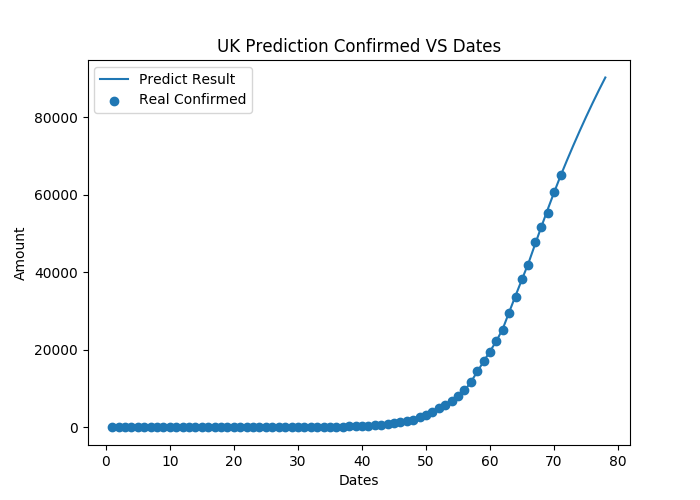
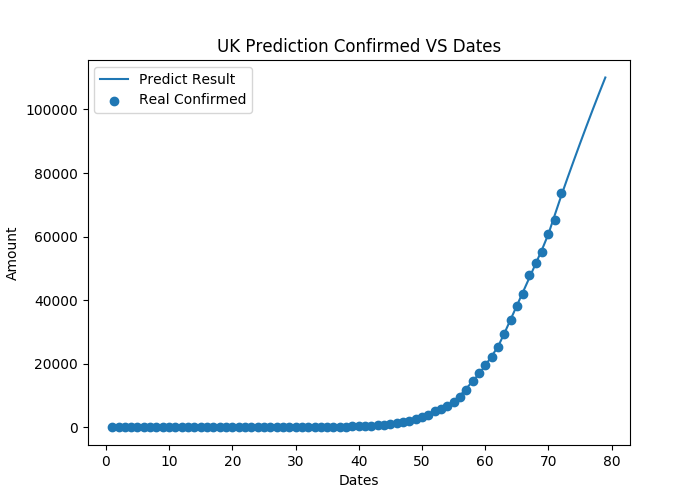
update predict data

diff --git a/mlp_uk.py b/mlp_uk.py
@@ -145,7 +145,7 @@ for each in each_data:
     uk_comfirmed_data.append(each['confirmed'])
 
 # add uk latest data manually
-uk_comfirmed_data.append(65077)
+uk_comfirmed_data.append(73758)
 
 uk_date_length = len(uk_comfirmed_data)
 uk_dates = list(range(1, uk_date_length + 1))
